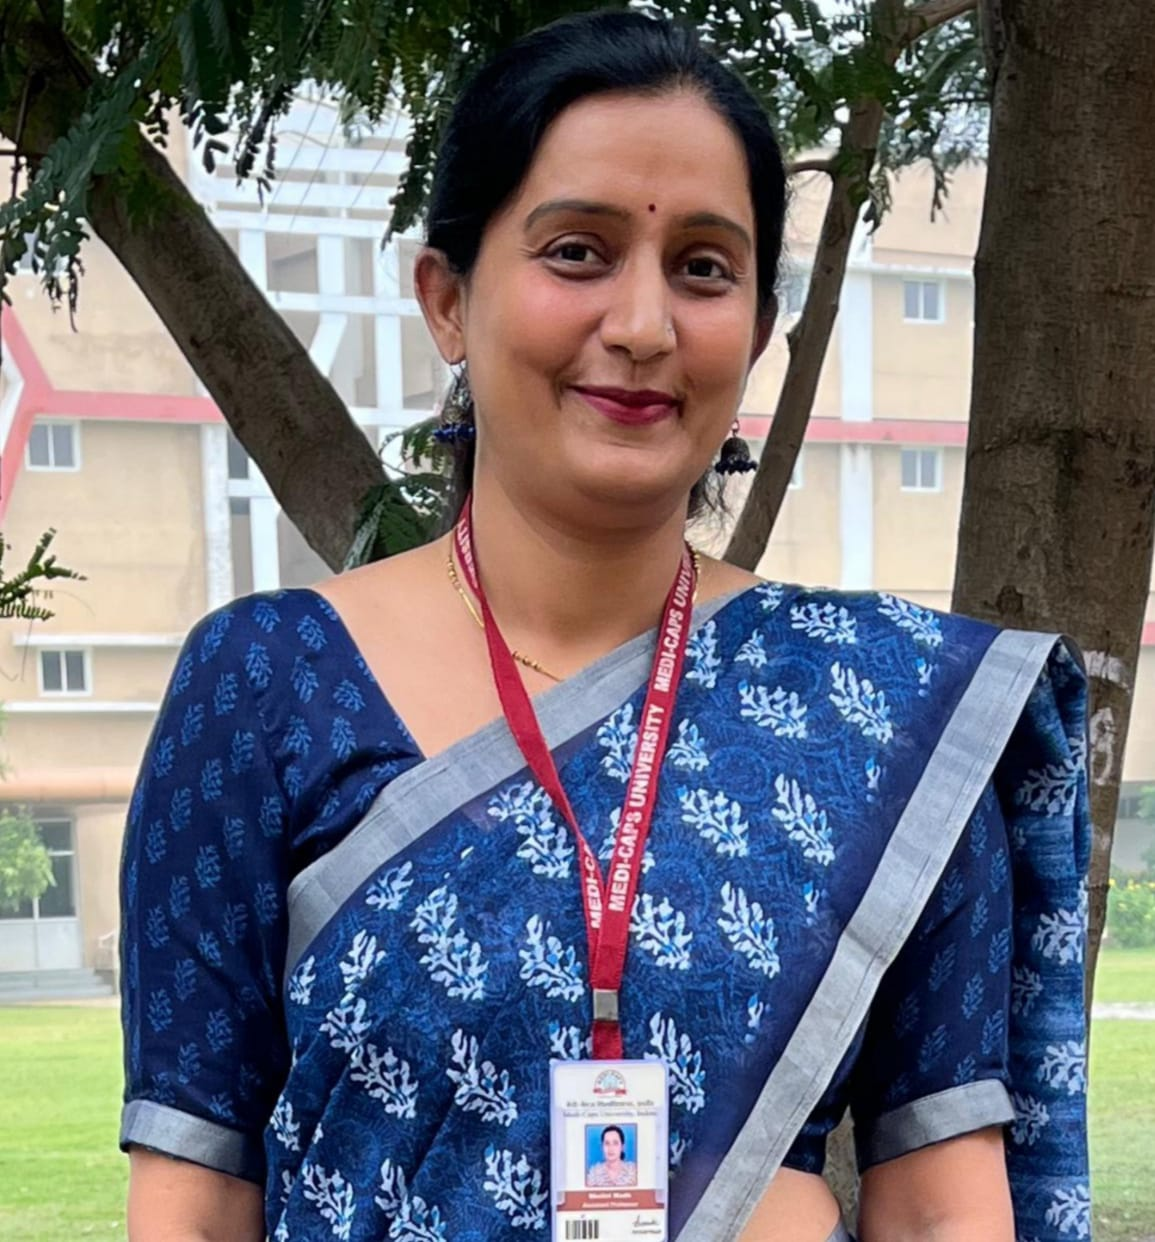
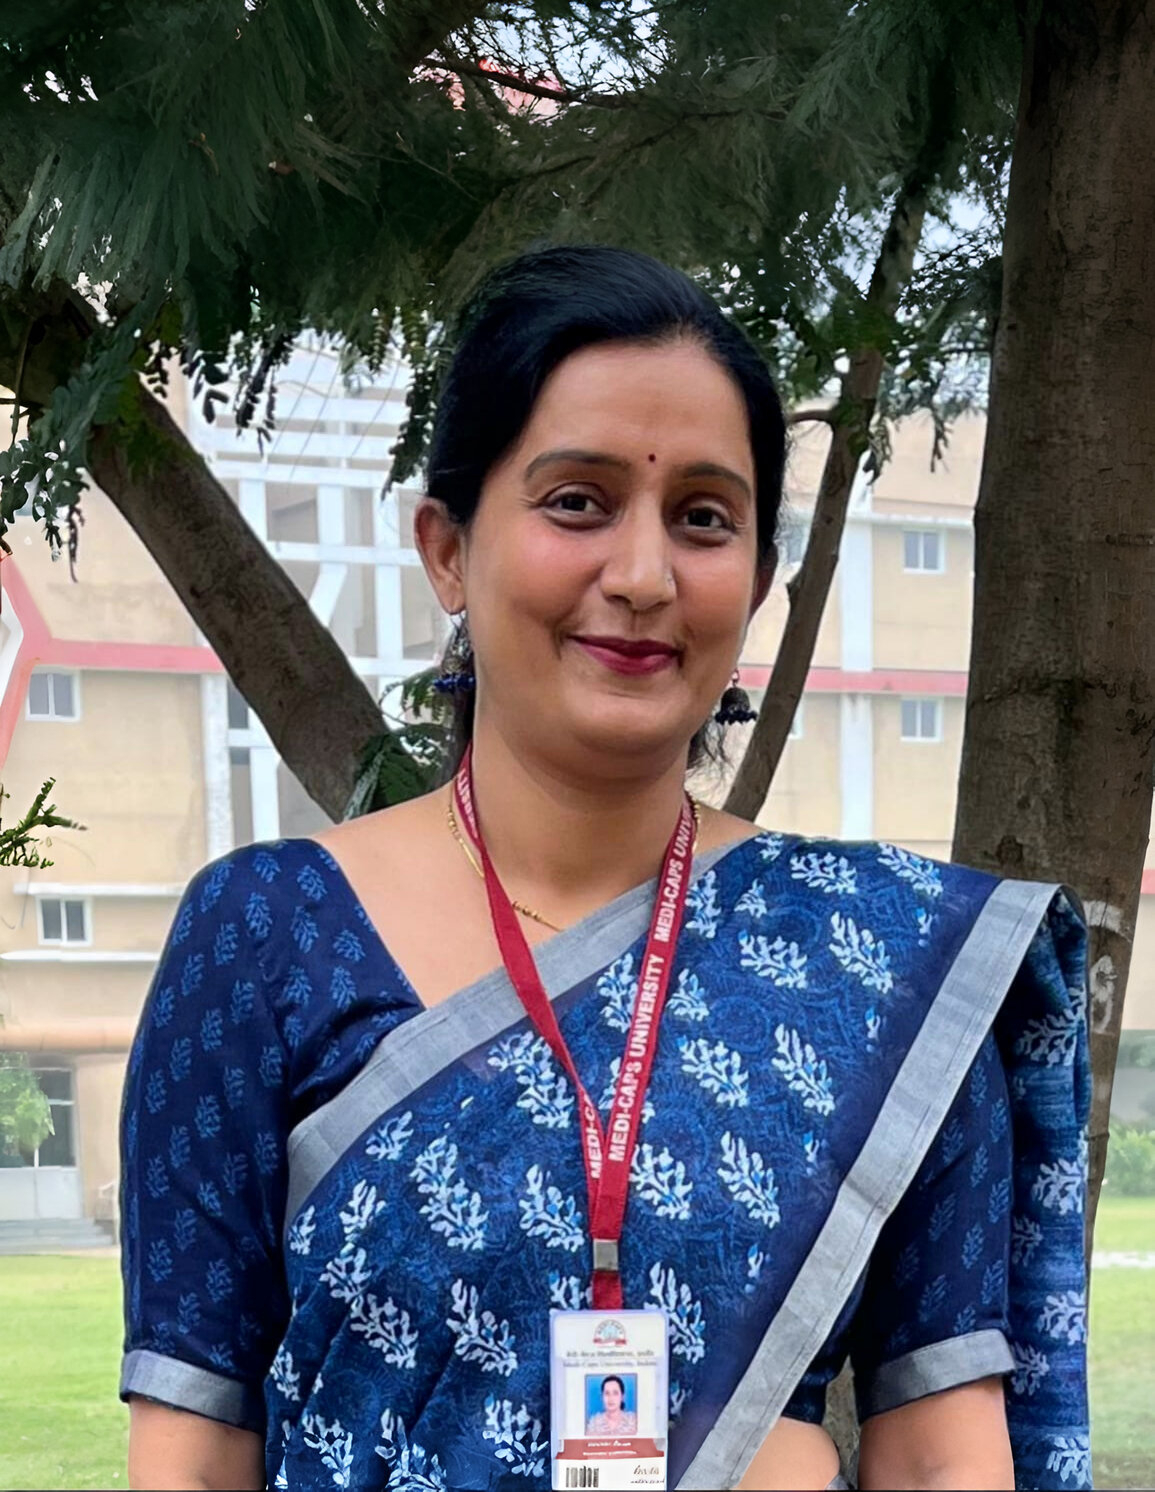
Fixed faculty phots, moved facultyData to constants

diff --git a/src/components/sections/ProfileSection.tsx b/src/components/sections/ProfileSection.tsx
@@ -1,87 +1,101 @@
 "use client";
+import { Swiper, SwiperSlide } from "swiper/react";
 import React from "react";
 import Image from "next/image";
 // import img from "@/assets/logo.webp";
 import { motion } from "framer-motion";
-
-import DrRupaliChaturvedi from "@/assets/faculty/Dr. Rupali Chaturvedi Longer.png";
-import DrShaliniModh from "@/assets/faculty/Dr. Shalini Modh.jpg";
-import MsAayushiBharadwaj from "@/assets/faculty/Ms. Aayushi Bharadwaj.jpg";
-import MsShubhrataKanungo from "@/assets/faculty/Ms. Shubhrata Kanungo.jpg";
+import { facultyData } from "@/constants";
 
 interface ProfileSectionProps {
-    id?: string;
+  id?: string;
 }
 
-const facultyData = [
-    {
-        name: "Dr. Shalini Modh",
-        role: "Faculty Incharge",
-        image: DrShaliniModh,
-    },
-    {
-        name: "Dr.Rupali Chaturvedi",
-        role: "Faculty Coordinator",
-        image: DrRupaliChaturvedi,
-    },
-    {
-        name: "Ms. Aayushi Bharadwaj",
-        role: "Faculty Coordinator",
-        image: MsAayushiBharadwaj,
-    },
-    {
-        name: "Ms. Shubhrata Kanungo",
-        role: "Faculty Coordinator",
-        image: MsShubhrataKanungo,
-    },
-];
+export const TeamCard = ({ member }: { member: (typeof facultyData)[0] }) => {
+  return (
+    <div className="group relative h-full overflow-hidden rounded-2xl border border-theme-gold/10 bg-zinc-900/50 transition-all duration-300 hover:border-theme-gold/20">
+      {/* Image Container */}
+      <div className="relative h-64 w-full overflow-hidden">
+        <div className="absolute inset-0 z-10 bg-gradient-to-t from-zinc-900 via-transparent to-transparent opacity-0 transition-opacity duration-300 group-hover:opacity-70" />
+        <Image
+          src={member.image}
+          alt={member.name}
+          className="h-full w-full object-cover transition-transform duration-300 group-hover:scale-110"
+        />
+
+        {/* Social Icons - Appear on Hover */}
+      </div>
+
+      {/* Content */}
+      <div className="p-6 text-center">
+        <h3 className="mb-1 text-xl font-bold capitalize text-theme-gold">
+          {member.name}
+        </h3>
+        <p className="capitalize text-theme-gold/70">{member.role}</p>
+        {/* <div className="mt-3 flex items-center justify-center gap-4 transition-opacity duration-300 group-hover:opacity-100">
+          <a
+            href={` https://www.instagram.com/${member.socials?.instagram}/`}
+            target="_blank"
+            className="rounded-full border border-theme-gold/10 bg-theme-red/20 p-2 transition-colors hover:bg-theme-red/30"
+          >
+            <Instagram className="h-5 w-5 text-theme-gold" />
+          </a>
+          <a
+            href={` https://www.linkedin.com/in/${member.socials?.linkedin}/`}
+            target="_blank"
+            className="rounded-full border border-theme-gold/10 bg-theme-red/20 p-2 transition-colors hover:bg-theme-red/30"
+          >
+            <Linkedin className="h-5 w-5 text-theme-gold" />
+          </a>
+        </div> */}
+      </div>
+    </div>
+  );
+};
 
 export const ProfileSection = ({ id }: ProfileSectionProps) => {
-    return (
-        <section id={id} className="w-full py-16 bg-background my-16">
-            <div className="max-w-7xl mx-auto px-4">
-                <motion.h2
-                    initial={{ opacity: 0 }}
-                    whileInView={{ opacity: 1 }}
-                    viewport={{ once: true }}
-                    transition={{ duration: 0.5 }}
-                    className="text-4xl font-bold text-theme-red text-center mb-12"
-                >
-                    Meet Our Faculty Team
-                </motion.h2>
+  return (
+    <section id={id} className="my-16 w-full bg-background py-16">
+      <div className="mx-auto max-w-7xl px-4">
+        <motion.h2
+          initial={{ opacity: 0 }}
+          whileInView={{ opacity: 1 }}
+          viewport={{ once: true }}
+          transition={{ duration: 0.5 }}
+          className="mb-12 text-center text-4xl font-bold text-theme-red"
+        >
+          Meet Our Faculty Team
+        </motion.h2>
 
-                <div className="grid grid-cols-1 lg:grid-cols-3 gap-12">
-                    {facultyData.map((faculty, index) => (
-                        <motion.div
-                            key={faculty.name}
-                            initial={{ opacity: 0 }}
-                            whileInView={{ opacity: 1 }}
-                            viewport={{ once: true }}
-                            transition={{ duration: 0.8, delay: index * 0.2 }}
-                            className="flex flex-col items-center space-y-6 p-6 border-2 border-theme-gold/20 rounded-lg"
-                        >
-                            <div className="relative w-48 h-48 md:w-64 md:h-64 rounded-full overflow-hidden border-4 border-theme-gold/20">
-                                <Image
-                                    src={faculty.image}
-                                    alt={faculty.name}
-                                    className="w-full h-full object-cover transition-transform duration-300 hover:scale-105"
-                                    priority={index === 0}
-                                />
-                            </div>
-                            <div className="text-center space-y-2">
-                                <h3 className="text-xl md:text-2xl font-semibold text-theme-gold">
-                                    {faculty.name}
-                                </h3>
-                                <p className="text-lg text-theme-gold/70">
-                                    {faculty.role}
-                                </p>
-                            </div>
-                        </motion.div>
-                    ))}
-                </div>
-            </div>
-        </section>
-    );
+        <div className="grid grid-cols-1 gap-12 lg:grid-cols-3">
+          {facultyData.map((faculty, index) => (
+            <motion.div
+              key={faculty.name}
+              initial={{ opacity: 0 }}
+              whileInView={{ opacity: 1 }}
+              viewport={{ once: true }}
+              transition={{ duration: 0.8, delay: index * 0.2 }}
+              className="flex flex-col items-center space-y-6 rounded-lg border-2 border-theme-gold/20 p-6"
+            >
+              <div className="relative h-48 w-48 overflow-hidden rounded-full border-4 border-theme-gold/20 md:h-64 md:w-64">
+                <Image
+                  src={faculty.image}
+                  alt={faculty.name}
+                  className="h-full w-full object-cover transition-transform duration-300 hover:scale-105"
+                  priority={index === 0}
+                />
+              </div>
+              <div className="space-y-2 text-center">
+                <h3 className="text-xl font-semibold text-theme-gold md:text-2xl">
+                  {faculty.name}
+                </h3>
+                <p className="text-lg text-theme-gold/70">{faculty.role}</p>
+              </div>
+            </motion.div>
+          ))}
+        </div>
+      </div>
+    </section>
+  );
 };
 
 export default ProfileSection;

diff --git a/src/components/sections/TeamSection.tsx b/src/components/sections/TeamSection.tsx
@@ -10,16 +10,16 @@ import "swiper/css";
 import "swiper/css/navigation";
 import "swiper/css/pagination";
 
-const TeamCard = ({ member }: { member: (typeof teamMembers)[0] }) => {
+export const TeamCard = ({ member }: { member: (typeof teamMembers)[0] }) => {
   return (
-    <div className="group relative bg-zinc-900/50 rounded-2xl overflow-hidden border border-theme-gold/10 transition-all duration-300 hover:border-theme-gold/20 h-full">
+    <div className="group relative h-full overflow-hidden rounded-2xl border border-theme-gold/10 bg-zinc-900/50 transition-all duration-300 hover:border-theme-gold/20">
       {/* Image Container */}
       <div className="relative h-64 w-full overflow-hidden">
-        <div className="absolute inset-0 bg-gradient-to-t from-zinc-900 via-transparent to-transparent opacity-0 group-hover:opacity-70 transition-opacity duration-300 z-10" />
+        <div className="absolute inset-0 z-10 bg-gradient-to-t from-zinc-900 via-transparent to-transparent opacity-0 transition-opacity duration-300 group-hover:opacity-70" />
         <Image
           src={member.image}
           alt={member.name}
-          className="w-full h-full object-cover transition-transform duration-300 group-hover:scale-110"
+          className="h-full w-full object-cover transition-transform duration-300 group-hover:scale-110"
         />
 
         {/* Social Icons - Appear on Hover */}
@@ -27,24 +27,24 @@ const TeamCard = ({ member }: { member: (typeof teamMembers)[0] }) => {
 
       {/* Content */}
       <div className="p-6 text-center">
-        <h3 className="text-xl font-bold text-theme-gold mb-1 capitalize">
+        <h3 className="mb-1 text-xl font-bold capitalize text-theme-gold">
           {member.name}
         </h3>
-        <p className="text-theme-gold/70 capitalize">{member.role}</p>
-        <div className="flex items-center justify-center gap-4 group-hover:opacity-100 mt-3 transition-opacity duration-300">
+        <p className="capitalize text-theme-gold/70">{member.role}</p>
+        <div className="mt-3 flex items-center justify-center gap-4 transition-opacity duration-300 group-hover:opacity-100">
           <a
             href={` https://www.instagram.com/${member.socials?.instagram}/`}
             target="_blank"
-            className="p-2 bg-theme-red/20 rounded-full border border-theme-gold/10 hover:bg-theme-red/30 transition-colors"
+            className="rounded-full border border-theme-gold/10 bg-theme-red/20 p-2 transition-colors hover:bg-theme-red/30"
           >
-            <Instagram className="w-5 h-5 text-theme-gold" />
+            <Instagram className="h-5 w-5 text-theme-gold" />
           </a>
           <a
             href={` https://www.linkedin.com/in/${member.socials?.linkedin}/`}
             target="_blank"
-            className="p-2 bg-theme-red/20 rounded-full border border-theme-gold/10 hover:bg-theme-red/30 transition-colors"
+            className="rounded-full border border-theme-gold/10 bg-theme-red/20 p-2 transition-colors hover:bg-theme-red/30"
           >
-            <Linkedin className="w-5 h-5 text-theme-gold" />
+            <Linkedin className="h-5 w-5 text-theme-gold" />
           </a>
         </div>
       </div>
@@ -54,26 +54,26 @@ const TeamCard = ({ member }: { member: (typeof teamMembers)[0] }) => {
 
 export const TeamSection = () => {
   return (
-    <section className="w-full py-16 px-4 bg-zinc-900/50" id="team">
+    <section className="w-full bg-zinc-900/50 px-4 py-16" id="team">
       {/* Section Header */}
       <motion.div
         initial={{ opacity: 0 }}
         whileInView={{ opacity: 1 }}
         viewport={{ once: true }}
         transition={{ duration: 0.5 }}
-        className="max-w-7xl mx-auto text-center mb-16"
+        className="mx-auto mb-16 max-w-7xl text-center"
       >
-        <h2 className="text-4xl md:text-5xl font-bold text-theme-gold mb-4">
+        <h2 className="mb-4 text-4xl font-bold text-theme-gold md:text-5xl">
           Meet Our Team
         </h2>
-        <p className="text-xl text-gray-300 max-w-3xl mx-auto">
+        <p className="mx-auto max-w-3xl text-xl text-gray-300">
           The passionate individuals behind Litopia who work tirelessly to bring
           literature to life.
         </p>
       </motion.div>
 
       {/* Team Slider */}
-      <div className="max-w-7xl mx-auto">
+      <div className="mx-auto max-w-7xl">
         <Swiper
           modules={[Navigation, Pagination, Autoplay]}
           spaceBetween={30}

diff --git a/src/constants.tsx b/src/constants.tsx
@@ -32,6 +32,11 @@ import mannat from "@/assets/team/mannat.webp";
 import riddhima from "@/assets/team/ridhima.webp";
 import abbas from "@/assets/team/abbas.webp";
 
+import DrRupaliChaturvedi from "@/assets/faculty/Dr. Rupali Chaturvedi.png";
+import DrShaliniModh from "@/assets/faculty/Dr. Shalini Modh.jpg";
+import MsAayushiBharadwaj from "@/assets/faculty/Ms. Aayushi Bharadwaj.jpg";
+import MsShubhrataKanungo from "@/assets/faculty/Ms. Shubhrata Kanungo.jpg";
+
 const navigationIconClass = "w-4 h-4";
 export const navigationItems: INavigationItems[] = [
   {
@@ -435,5 +440,28 @@ export const teamMembers = [
       instagram: "devendra-kalmodiya",
       linkedin: "devendra-kalmodiya-633809277",
     },
+  },
+];
+
+export const facultyData = [
+  {
+    name: "Dr. Shalini Modh",
+    role: "Faculty Incharge",
+    image: DrShaliniModh,
+  },
+  {
+    name: "Ms. Shubhrata Kanungo",
+    role: "Faculty Coordinator",
+    image: MsShubhrataKanungo,
+  },
+  {
+    name: "Dr.Rupali Chaturvedi",
+    role: "Faculty Coordinator",
+    image: DrRupaliChaturvedi,
+  },
+  {
+    name: "Ms. Aayushi Bharadwaj",
+    role: "Faculty Coordinator",
+    image: MsAayushiBharadwaj,
   },
 ];
